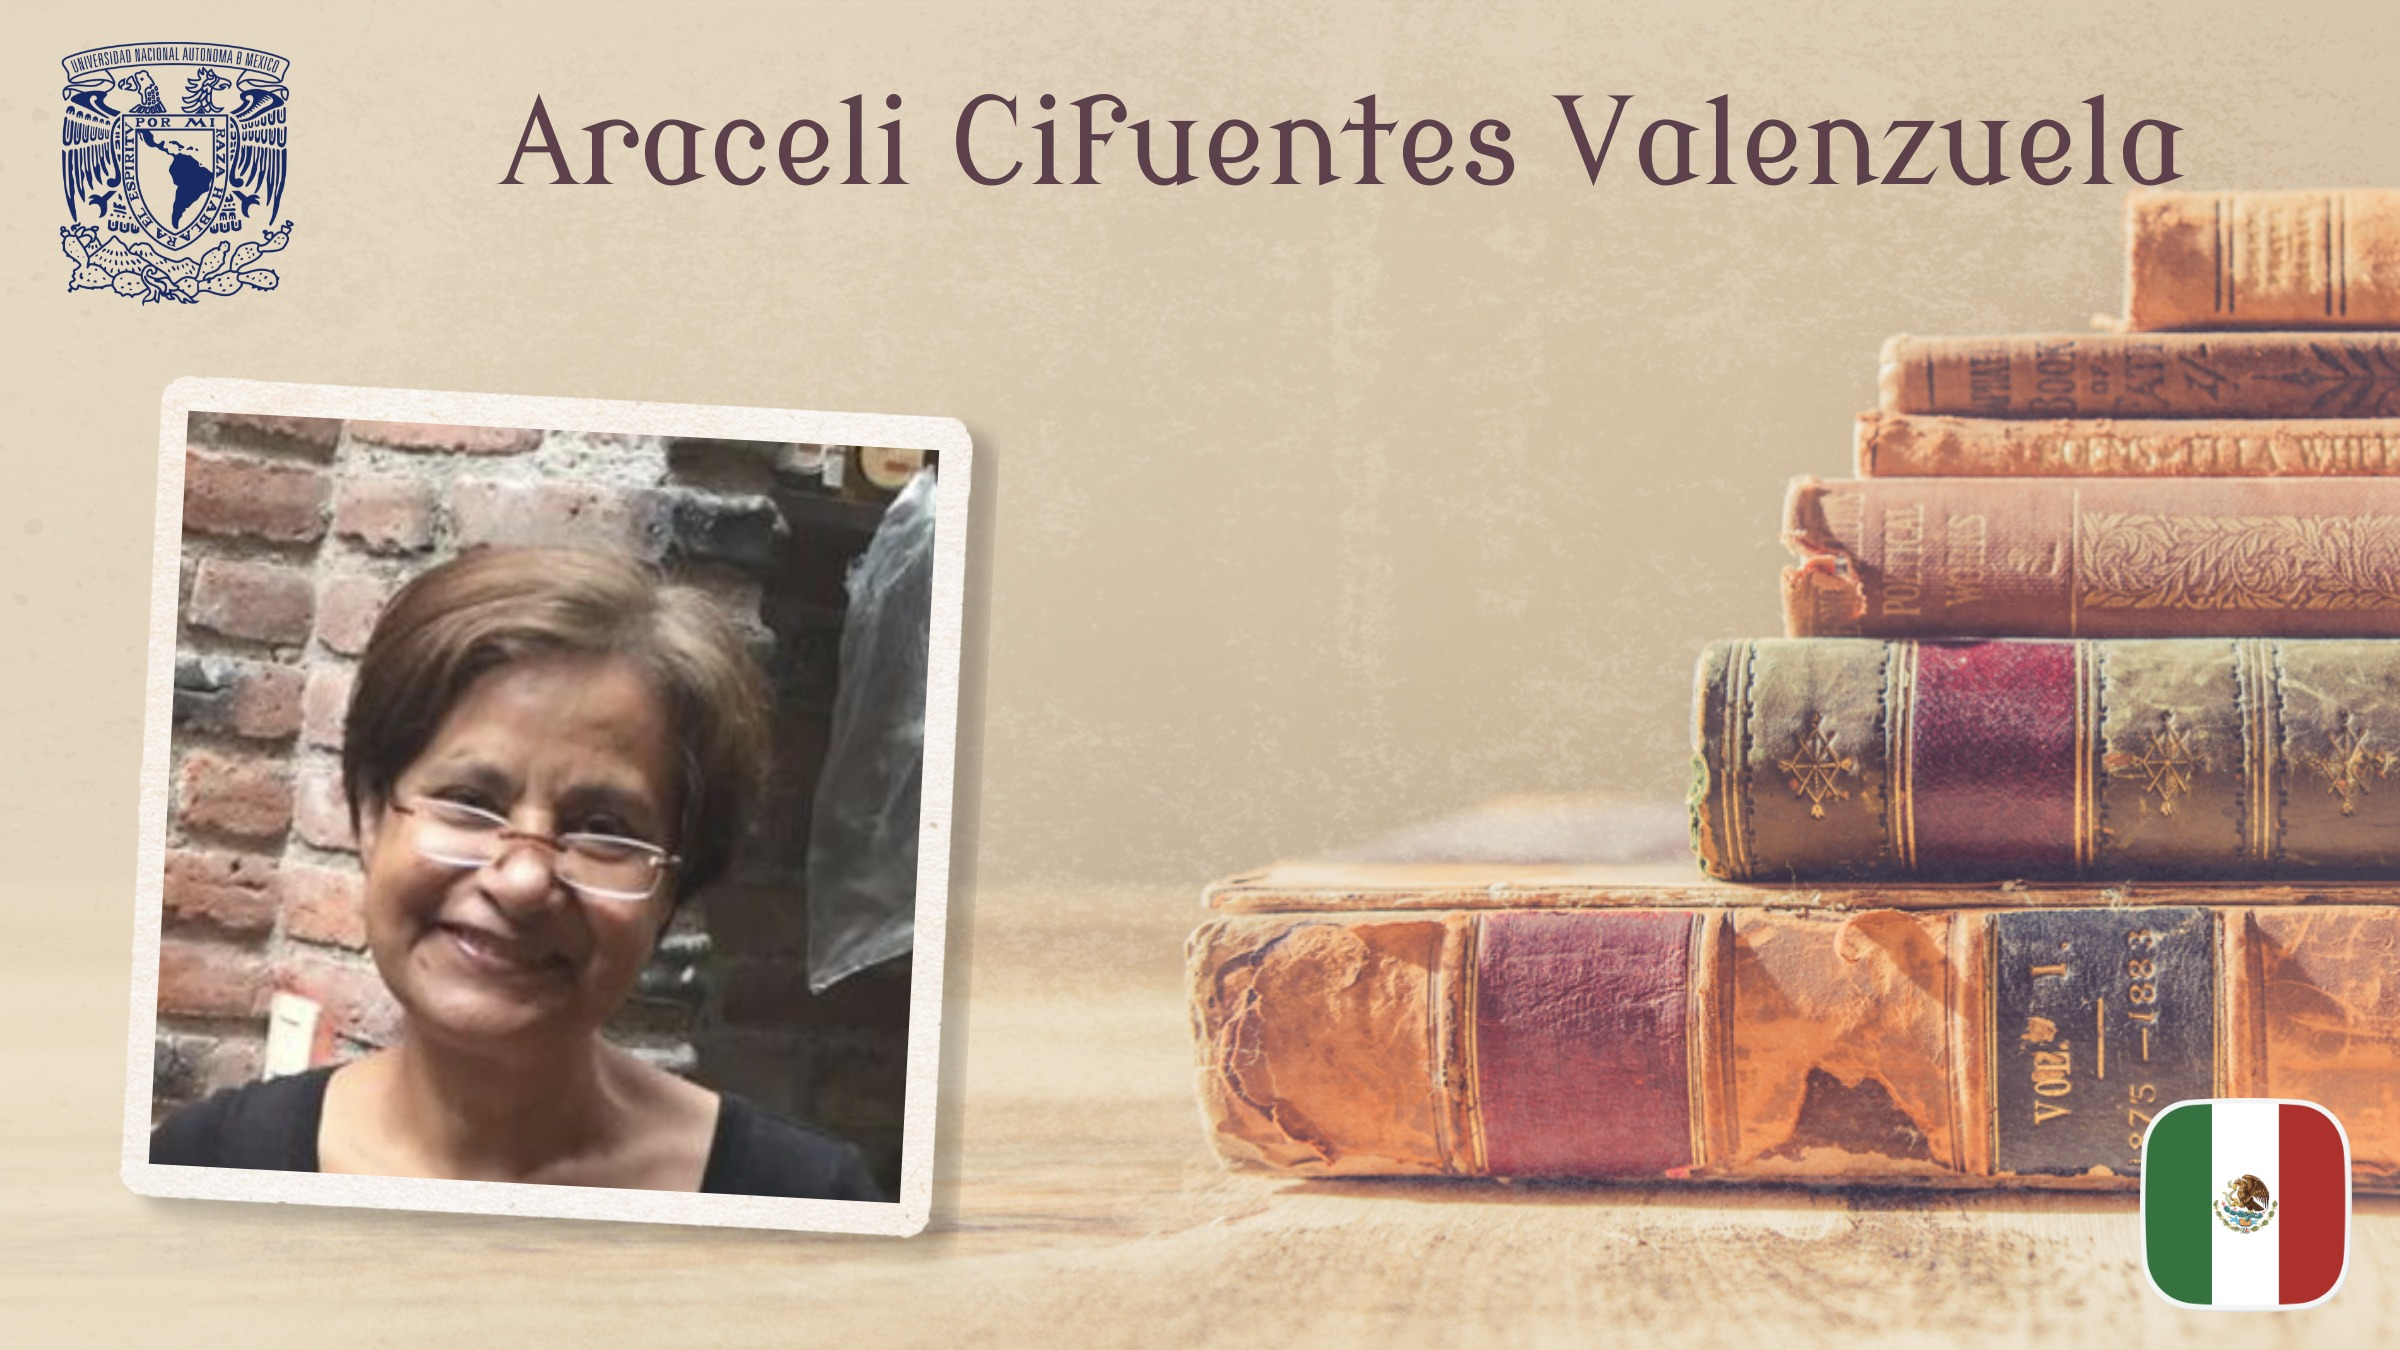
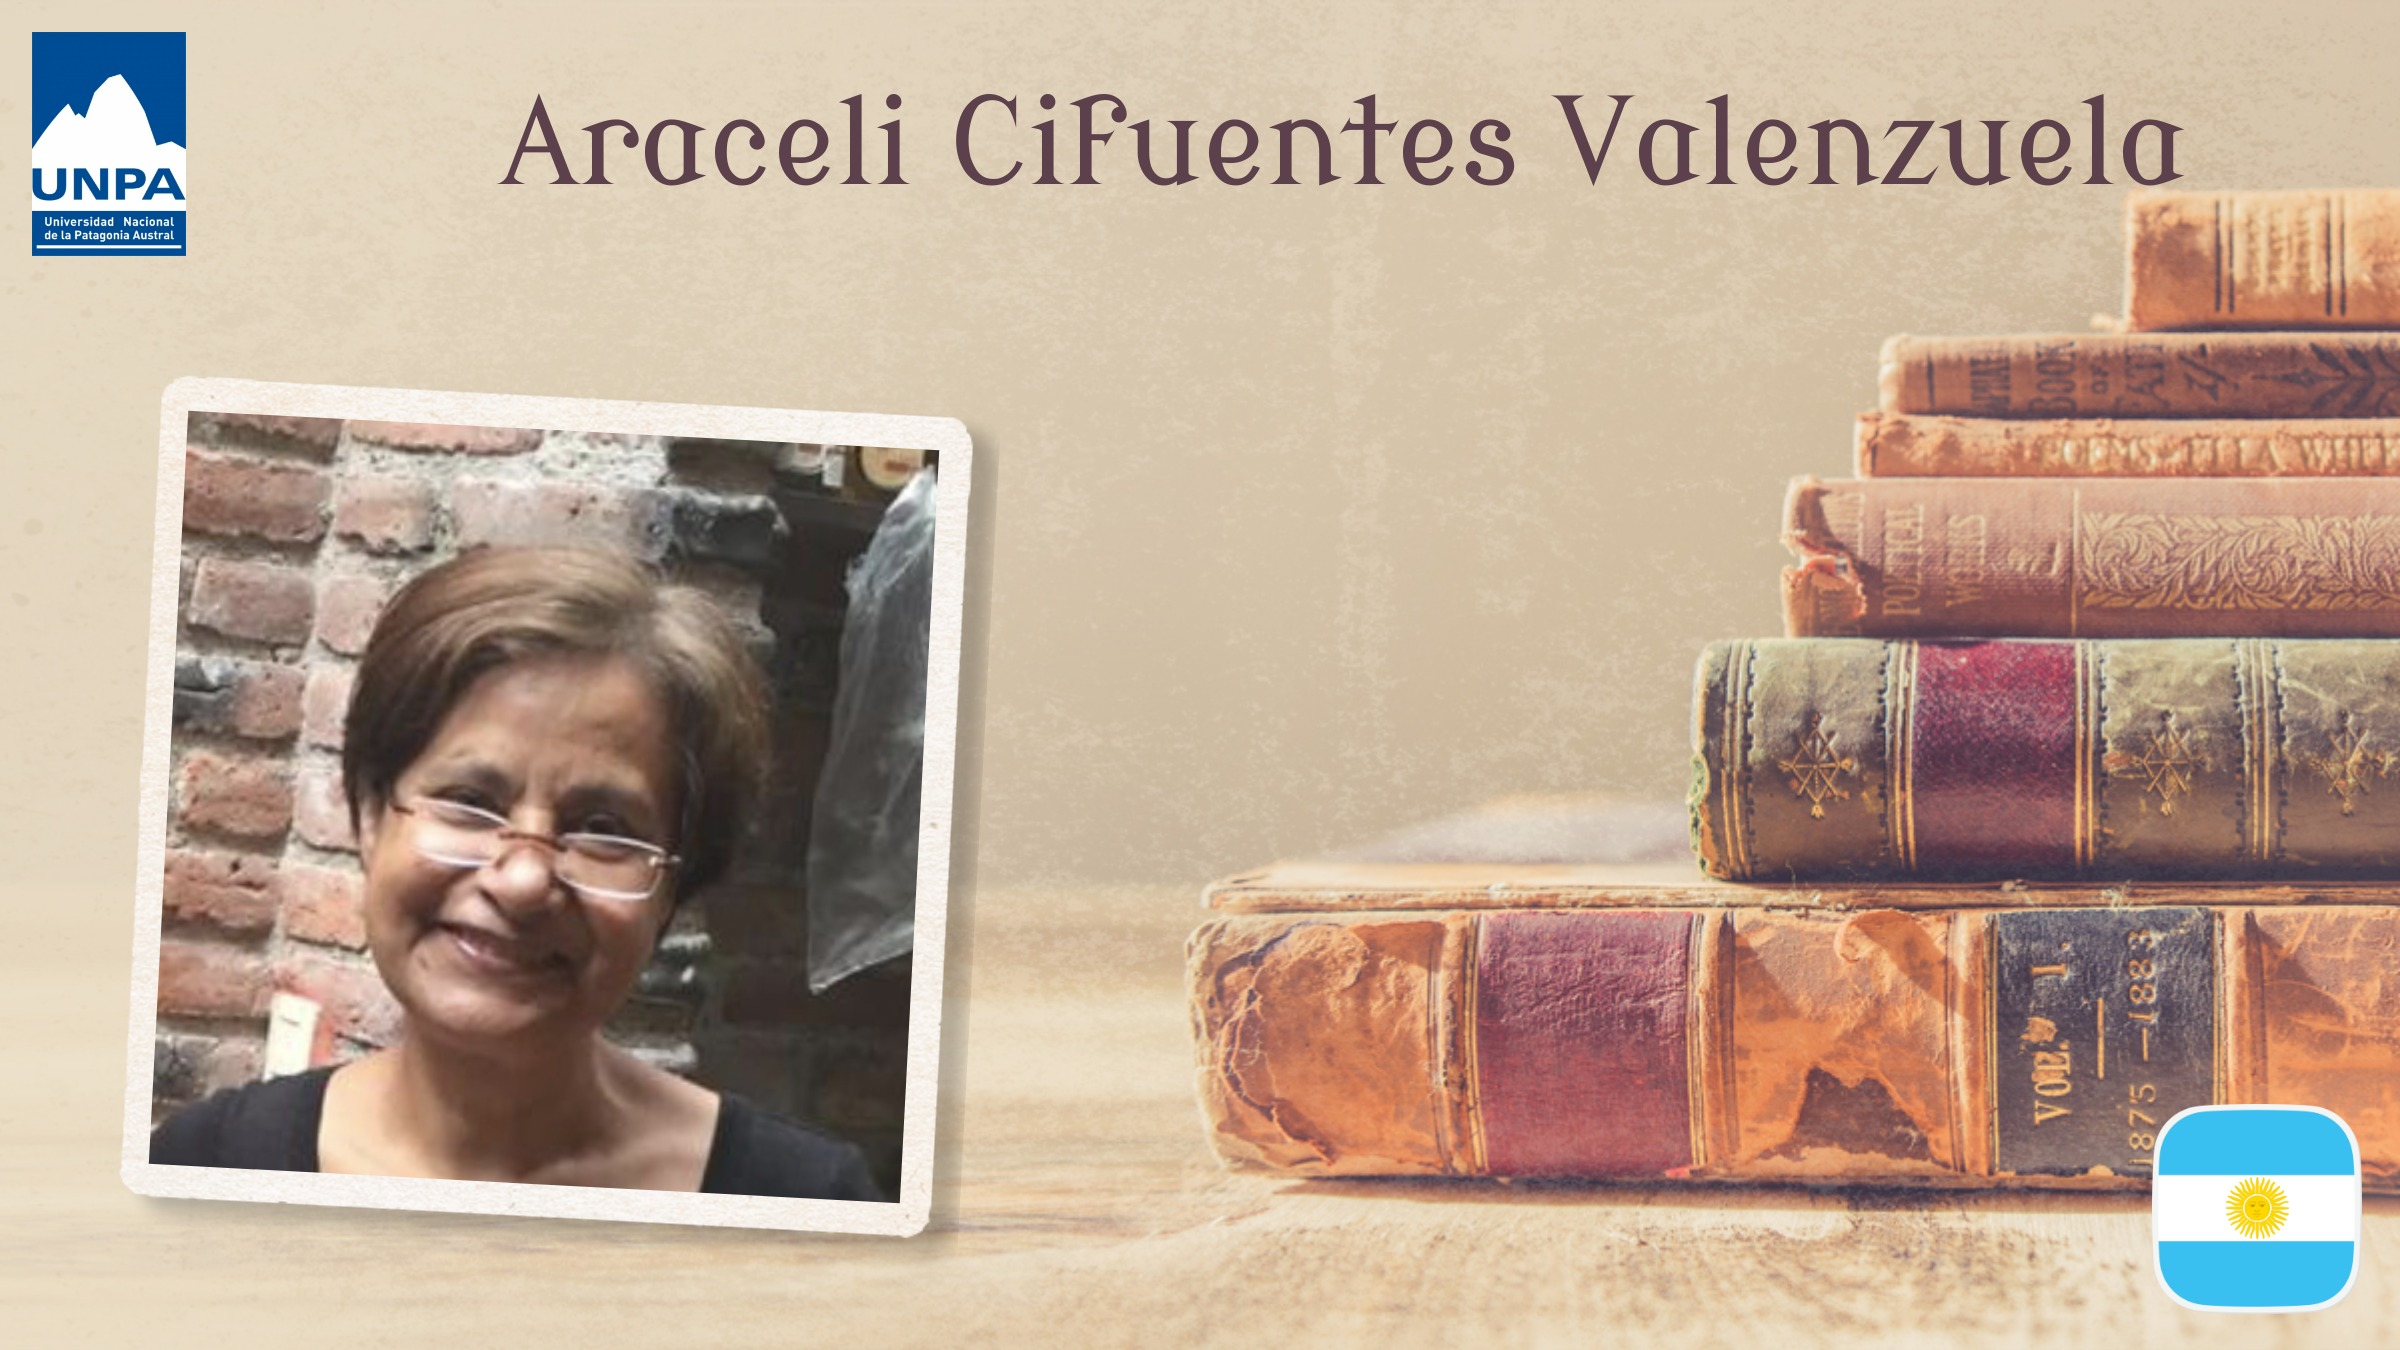
CHANGE tecnico a cientifco

Changed region(s): [[0.0, 0.0, 0.125, 0.2489], [0.875, 0.8089, 1.0, 0.9956]]

diff --git a/src/app/pages/comite/cientifico/cientifico.component.html b/src/app/pages/comite/cientifico/cientifico.component.html
@@ -18,7 +18,7 @@
           <div class="row">
             <div class="col-lg-12">
               <h1 class="display-3  text-white">Comité Científico
-                <span>Una visión integradora desde las IES</span>
+                <!-- <span>Una visión integradora desde las IES</span> -->
               </h1>
               <p class="lead text-white">
                 Integran este comité:
@@ -70,6 +70,19 @@
             </div>
             <div class="col-lg-3"></div>
           </div>
+
+          <div class="row row-grid">
+            <div class="col-lg-3"></div>
+            <div class="col-lg-6">
+              <div class="card card-lift--hover shadow border-0">
+                <a  class="" href="" data-toggle="modal" data-target="#delafuente">
+                  <img class="conf" src="../../../../assets/img/images/persons/delafuente-cientifico.jpg" alt="" >
+                </a>
+              </div>
+            </div>
+            <div class="col-lg-3"></div>
+          </div>
+
           <!-- <div class="row row-grid">
             <div class="col-lg-6">
               <div class="card card-lift--hover shadow border-0">
@@ -147,6 +160,20 @@
             </div>
             <div class="col-lg-3"></div>
           </div>
+
+
+          <div class="row row-grid">
+            <div class="col-lg-3"></div>
+            <div class="col-lg-6">
+              <!-- Garcidueñas-->
+              <div class="card card-lift--hover shadow border-0">
+                <a class="" href="" data-toggle="modal" data-target="#Garcidueñas">
+                  <img class="conf" src="../../../../assets/img/images/persons/Garcidueñas-cientifico.jpg" alt="">
+                </a>
+              </div>
+            </div>
+            <div class="col-lg-3"></div>
+          </div>
           <!-- #endregion -->
 
 
@@ -165,6 +192,20 @@
             </div>
             <div class="col-lg-3"></div>
           </div>
+
+          <div class="row row-grid">
+            <div class="col-lg-3"></div>
+            <div class="col-lg-6">
+              <div class="card card-lift--hover shadow border-0">
+                <a class="" href="" data-toggle="modal" data-target="#abdiel">
+                  <img class="conf" src="../../../../assets/img/images/persons/abdiel-cientifico.jpg" alt="">
+                </a>
+              </div>
+            </div>
+            <div class="col-lg-3"></div>
+          </div>
+
+
           <!-- #endregion -->
 
 
@@ -186,6 +227,20 @@
             </div>
             <div class="col-lg-3"></div>
           </div>
+
+          <div class="row row-grid">
+            <div class="col-lg-3"></div>
+            <div class="col-lg-6">
+              <div class="card card-lift--hover shadow border-0">
+                <a class="" href="" data-toggle="modal" data-target="#ErikFernando">
+                  <img class="conf" src="../../../../assets/img/images/persons/ErikFernando-cientifico.jpg" alt="">
+                </a>
+              </div>
+            </div>
+            <div class="col-lg-3"></div>
+          </div>
+
+
           <!-- #endregion -->
 
 
@@ -268,17 +323,7 @@
                   <p class="subtitle fancy"><span>
                     ENES, Unidad León, UNAM
                   </span></p>
-                  <div class="row row-grid">
-                    <div class="col-lg-3"></div>
-                    <div class="col-lg-6">
-                      <div class="card card-lift--hover shadow border-0">
-                        <a  class="" href="" data-toggle="modal" data-target="#delafuente">
-                          <img class="conf" src="../../../../assets/img/images/persons/delafuente-cientifico.jpg" alt="" >
-                        </a>
-                      </div>
-                    </div>
-                    <div class="col-lg-3"></div>
-                  </div>
+                  
 
                   <div class="row row-grid">
                     <div class="col-lg-3"></div>

diff --git a/src/app/pages/comite/tecnico/tecnico.component.html b/src/app/pages/comite/tecnico/tecnico.component.html
@@ -20,7 +20,7 @@
           <div class="col px-0">
             <div class="row">
               <div class="col-lg-12">
-                <h1 class="display-3 ">Comité Técnico
+                <h1 class="display-3 text-white">Comité Técnico
                   <!-- <span>Una visión integradora desde las IES</span> -->
                 </h1>
                 <p class="lead text-white">Integran este comité:                </p>
@@ -49,12 +49,14 @@
             <div class="row row-grid">
               <div class="col-lg-12">
 
-                <a href="" data-toggle="modal" data-target="#abdiel" class="media d-flex align-items-center">
+                <!-- <a href="" data-toggle="modal" data-target="#abdiel" class="media d-flex align-items-center">
                   <img class="logo" src="../../../../assets/img/flags/mexico.png" alt="">
                   <div class="media-body ml-3">
                     <h3 class="description text-primary mb-md-1"> <strong>Abdiel Hernández Mendoza |</strong>  ENES Unidad Morelia, UNAM</h3>
                   </div>
-                </a>
+                </a> -->
+
+
 
 
                 <a href="" data-toggle="modal" data-target="#amparo" class="media d-flex align-items-center">
@@ -66,9 +68,9 @@
 
 
                 <a href="" data-toggle="modal" data-target="#CifuentesValenzuela" class="media d-flex align-items-center">
-                  <img class="logo" src="../../../../assets/img/flags/mexico.png" alt="">
+                  <img class="logo" src="../../../../assets/img/flags/argentina.png" alt="">
                   <div class="media-body ml-3">
-                    <h3 class="description text-primary mb-md-1"> <strong>Araceli Cifuentes Valenzuela |</strong>  UNAM</h3>
+                    <h3 class="description text-primary mb-md-1"> <strong>Araceli Cifuentes Valenzuela |</strong>  Universidad Nacional de la Patagonia. Argentina</h3>
                   </div>
                 </a>
 
@@ -89,12 +91,12 @@
                   </div>
                 </a>
 
-                <a href="" data-toggle="modal" data-target="#ErikFernando" class="media d-flex align-items-center">
+                <!-- <a href="" data-toggle="modal" data-target="#ErikFernando" class="media d-flex align-items-center">
                   <img class="logo" src="../../../../assets/img/flags/mexico.png" alt="">
                   <div class="media-body ml-3">
                     <h3 class="description text-primary mb-md-1"> <strong>Erik Fernando Granados León |</strong>  ENES Unidad Mérida, UNAM</h3>
                   </div>
-                </a>
+                </a> -->
 
                 <a href="" data-toggle="modal" data-target="#espinozaJimenez" class="media d-flex align-items-center">
                   <img class="logo" src="../../../../assets/img/flags/mexico.png" alt="">
@@ -187,12 +189,12 @@
 
 
 
-                <a href="" data-toggle="modal" data-target="#Garcidueñas" class="media d-flex align-items-center">
+                <!-- <a href="" data-toggle="modal" data-target="#Garcidueñas" class="media d-flex align-items-center">
                   <img class="logo" src="../../../../assets/img/flags/mexico.png" alt="">
                   <div class="media-body ml-3">
                     <h3 class="description text-primary mb-md-1"> <strong>Luis Eduardo Servín Garcidueñas |</strong>  ENES Unidad Morelia, UNAM </h3>
                   </div>
-                </a>
+                </a> -->
 
 
 

diff --git a/src/app/pages/comite/organizador/organizador.component.html b/src/app/pages/comite/organizador/organizador.component.html
@@ -17,13 +17,15 @@
           <div class="col px-0">
             <div class="row">
               <div class="col-lg-12">
-                <h1 class="display-3">Comité Organizador
-                  <span>Una visión integradora desde las IES</span>
+                <h1 class="display-3 text-white">Comité Organizador
+                  <!-- <span>Una visión integradora desde las IES</span> -->
                 </h1>
-                <p class="lead text-white">El Congreso Virtual Internacional de INNOVACIÓN Y EQUIDAD EDUCATIVA tiene como objetivo crear un espacio de intercambio de 
+                <p class="lead text-white">Integran este comité:                </p>
+                <p class="lead text-white">Directora, Exdirector y Fundador de la Escuela Nacional de Estudios Superiores, Unidad  León, Jefa de la División de Educación Continua e Innovación de esta escuela; y Profesora Distinguida y Coordinadora del congreso</p>
+                <!-- <p class="lead text-white">El Congreso Virtual Internacional de INNOVACIÓN Y EQUIDAD EDUCATIVA tiene como objetivo crear un espacio de intercambio de 
                     <span class="text-unam-azul"><strong> experiencias</strong></span> de 
                     <span class="text-unam-azul"><strong> innovaciones</strong></span> e <span class="text-unam-azul"><strong> investigaciones</strong></span>,
-                    desarrolladas en torno a la innovación y equidad en las instituciones de educación superior.</p>
+                    desarrolladas en torno a la innovación y equidad en las instituciones de educación superior.</p> -->
                 <!-- <div class="btn-wrapper">
                   <a href="https://demos.creative-tim.com/argon-design-system-angular/documentation/alerts?ref=adsa-landing-page" class="btn btn-info btn-icon mb-3 mb-sm-0">
                     <span class="btn-inner--icon"><i class="fa fa-code"></i></span>

diff --git a/src/app/shared/sintesis-modals/sintesis-modals.component.html b/src/app/shared/sintesis-modals/sintesis-modals.component.html
@@ -985,7 +985,7 @@
       </div>
       <div class="modal-body">
         <div class="row justify-content-center">
-          <img class="person" src="../../../assets/img/images/persons/Garcidueñas.jpg" alt="">
+          <!-- <img class="person" src="../../../assets/img/images/persons/Garcidueñas.jpg" alt=""> -->
         </div>
         <br>
         
@@ -1479,7 +1479,7 @@
       </div>
       <div class="modal-body">
         <div class="row justify-content-center">
-          <img class="person" src="../../../assets/img/images/persons/ErikFernando.jpg" alt="">
+          <!-- <img class="person" src="../../../assets/img/images/persons/ErikFernando.jpg" alt=""> -->
         </div>
         <br>
         <p>Erik Fernando Granados León es licenciado en Psicología por la Universidad Autónoma de Yucatán (UADY), y se
@@ -1794,7 +1794,7 @@
       </div>
       <div class="modal-body">
         <div class="row justify-content-center">
-          <img class="person" src="../../../assets/img/images/persons/abdiel.jpg" alt="">
+          <!-- <img class="person" src="../../../assets/img/images/persons/abdiel.jpg" alt=""> -->
         </div>
         <br>
 
